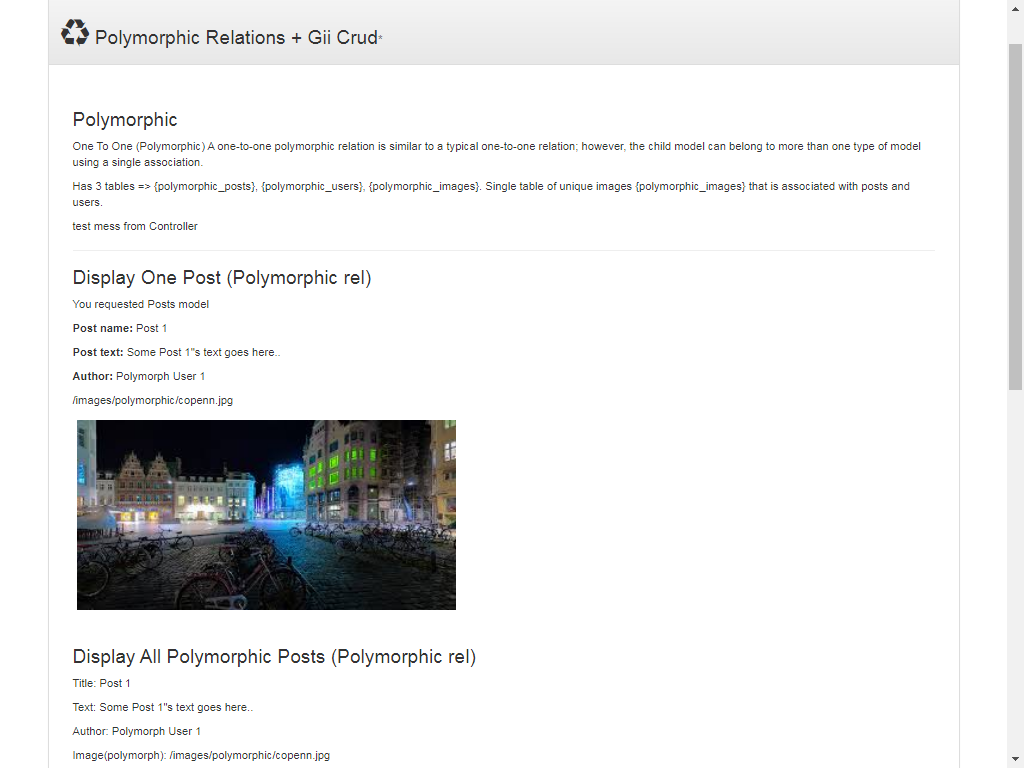
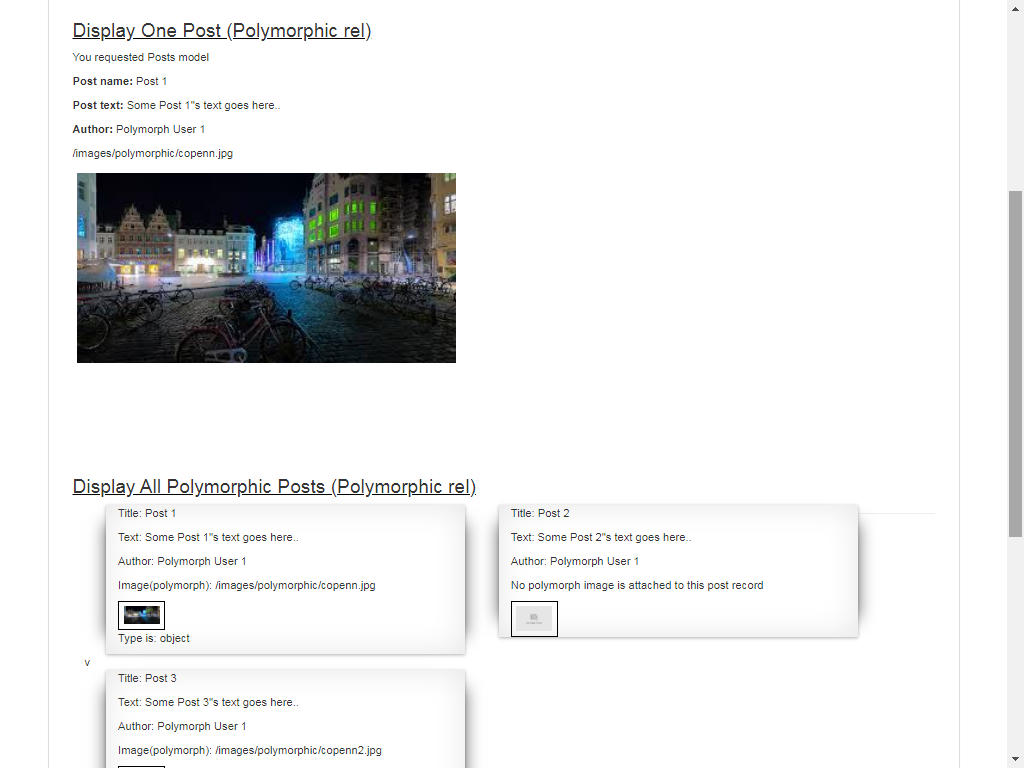
Feat(Polymorpic): added Gii CRUD (44%)

diff --git a/blog_Laravel/app/Http/Requests/Polymorphic/PostPolymUpdateRequest.php b/blog_Laravel/app/Http/Requests/Polymorphic/PostPolymUpdateRequest.php
@@ -3,8 +3,13 @@
 namespace App\Http\Requests\Polymorphic;
 
 use Illuminate\Foundation\Http\FormRequest;
+//use Illuminate\Http\Request as BaseRequest;
 
-use Illuminate\Contracts\Validation\Validator;
+//use Illuminate\Contracts\Validation\Validator;
+//use Illuminate\Support\Facades\Validator;
+
+use Illuminate\Contracts\Validation\Validator; //true
+
 
 class PostPolymUpdateRequest extends FormRequest
 {
@@ -29,9 +34,9 @@ class PostPolymUpdateRequest extends FormRequest
     {
         return [
             //
-			'product-name'     => ['required', 'string', 'min:3'], 
-			'u_address'        => [ 'required',  'string', 'min:8'],
-            'u_email'          => [ 'required', 'email' ] ,
+			'product-name'     => ['required', 'string',   'min:3'], 
+			'product-desr'     => [ 'required',  'string', 'min:8'],
+            //'u_email'          => [ 'required', 'email' ] ,
         ];
     }
 	
@@ -49,9 +54,9 @@ class PostPolymUpdateRequest extends FormRequest
 		   'product-name.required'   => 'Kindly ask you to specify the title',
 		   'product-name.min'        => 'Post title can"t be less than 3 chars',
            //'username.required' => Lang::get('userpasschange.usernamerequired'),
-	       'u_name.required'     => 'We need u to specify your name',
-	       'u_email.email'       => 'Give us real email',
-	       'u_phone.regex'       => 'Phone must be in format +380....',
+	       //'u_name.required'     => 'We need u to specify your name',
+	       //'u_email.email'       => 'Give us real email',
+	       //'u_phone.regex'       => 'Phone must be in format +380....',
 		];
 	}
 	
@@ -74,7 +79,14 @@ class PostPolymUpdateRequest extends FormRequest
 	*/
 	
 	//If u want if Validation fails, the Controller still execute code
-	protected function failedValidation(Validator $validator){
+	/**
+     * To override Return validation errors. In this case it will return and exucute code in Controller, even if Request Validation fails
+     * @param Validator $validator
+     * 
+     */
+	
+	protected function failedValidation(Validator $validator)
+	{
 		$this->validator = $validator;
     }
 	

diff --git a/blog_Laravel/app/Http/Controllers/Polymorphic_Controller/PolymorphicController.php b/blog_Laravel/app/Http/Controllers/Polymorphic_Controller/PolymorphicController.php
@@ -5,12 +5,16 @@ namespace App\Http\Controllers\Polymorphic_Controller;
 use Illuminate\Http\Request;
 use Illuminate\Support\Facades\Input;
 use Illuminate\Support\Facades\Auth;
-use Illuminate\Support\Facades\Validator;
+//use Illuminate\Support\Facades\Validator;
+//use Illuminate\Contracts\Validation\Validator;
+use Illuminate\Support\Facades\Validator; //from ABZ + Controllers/WpBlog_Admin_Part/WpBlog_Admin_Rest_API_Contoller.php
+
 use Storage;
 use Illuminate\Support\Facades\DB;
 use Illuminate\Validation\Rule;
 use Carbon\Carbon;
 use App\Http\Requests\Polymorphic\PostPolymUpdateRequest; //Validation via Request Class
+
 use App\Http\Controllers\Controller; //to place controller in subfolder
 use App\models\Polymorphic\Polymorphic_Posts;    //model for DB table {polymorphic_posts}
 use App\models\Polymorphic\Polymorphic_Images;   //model for DB table {polymorphic_images}
@@ -90,16 +94,24 @@ class PolymorphicController extends Controller
 	 
     public function updateProduct (PostPolymUpdateRequest $request)
 	{
-		dd($request->all());
+		//dd($request->all());
 		
 		//commented {function withValidator} and decommented {function failedValidation} in Requests\Polymorphic\PostPolymUpdateRequest in order if Validation fails, the Controller still execute code
 		//if validation fails
 		if (isset($request->validator) && $request->validator->fails()) {
-            return redirect()->back()->withInput()->with('flashMessageFailX', 'Validation Failedd!!!' )->withErrors($validator);
-		} 
+            return redirect()->back()->withInput()->with('flashMessageFailX', 'Validation Failedd!!!' )->withErrors($request->validator->messages()); //Error was here ->withErrors($validator);
+		    
+			/*
+			return response()->json([
+               'error' => true, 
+               'data' => 'Was seem to be OK, but validation crashes', 
+               'validateErrors'=>  $request->validator->messages()]);
+			*/
+		}
+		
 		
 		//$request->input('role_sel'); vs $request->all()
-		
+		return "Validation is OK";
 	}
       
    

diff --git a/blog_Laravel/routes/web.php b/blog_Laravel/routes/web.php
@@ -176,7 +176,7 @@ Route::post('/package-captcha','CaptchaController@packageCaptcha')->name('packag
 Route::get('/polymorphic',       'Polymorphic_Controller\PolymorphicController@index') ->name('polymorphic');
 // gii table, show edit page
 Route::get('gii-edit-post/{id}', 'Polymorphic_Controller\PolymorphicController@editProduct')->name('gii-edit-post/{id}'); //display form to edit an existing post
-Route::post('update-post',       'Polymorphic_Controller\PolymorphicController@updateProduct')->name('update-post'); //$_PUT to update existing post
+Route::put('update-post',       'Polymorphic_Controller\PolymorphicController@updateProduct')->name('update-post'); //$_PUT to update existing post
 
 
 //test route to call controller via command-line. Actually does not need any Route as called via CLI Tinker just to check it works. Controller function just saves current time to log.

diff --git a/blog_Laravel/resources/views/polymorphic/edit-product.blade.php b/blog_Laravel/resources/views/polymorphic/edit-product.blade.php
@@ -127,7 +127,8 @@
 						
                             <!--------- Form to a add new item   --------------->
 				            <form class="form-horizontal" method="post" action="{{url('update-post')}}" enctype="multipart/form-data">
-			
+			                
+							<input name="_method" type="hidden" value="PUT">  <!--{!!  method_field('PUT') !!} --> <!-- Fix for PUT -->
                             
                             <input type="hidden" value="{{csrf_token()}}" name="_token" /><!-- csrf-->
                             <input type="hidden" value="{{ $productOne[0]->id }}" name="prod-id" /> <!-- product ID -->

diff --git a/blog_Laravel/resources/views/polymorphic/index.blade.php b/blog_Laravel/resources/views/polymorphic/index.blade.php
@@ -44,6 +44,7 @@
                     <h3>
                         <i class="fa fa-recycle" style="font-size:36px"></i>  
                         Polymorphic Relations + Gii Crud<span class="small text-danger">*</span>
+						<p>Db table <b> {polymorphic_images} </b> contains images either for table <b> {polymorphic_posts} </b> or <b> {polymorphic_users }</b>. Table <b>{polymorphic_images}</b> has a column that contains model belonging to image</p>
                     </h3>
                     <p></p> 
                     <p></p>                  

diff --git a/blog_Laravel/readme.md b/blog_Laravel/readme.md
@@ -115,6 +115,8 @@
 
 ![Screenshot](public/images/Screenshots/38.png)
 
+![Screenshot](public/images/Screenshots/39.png)
+
 
 
 
